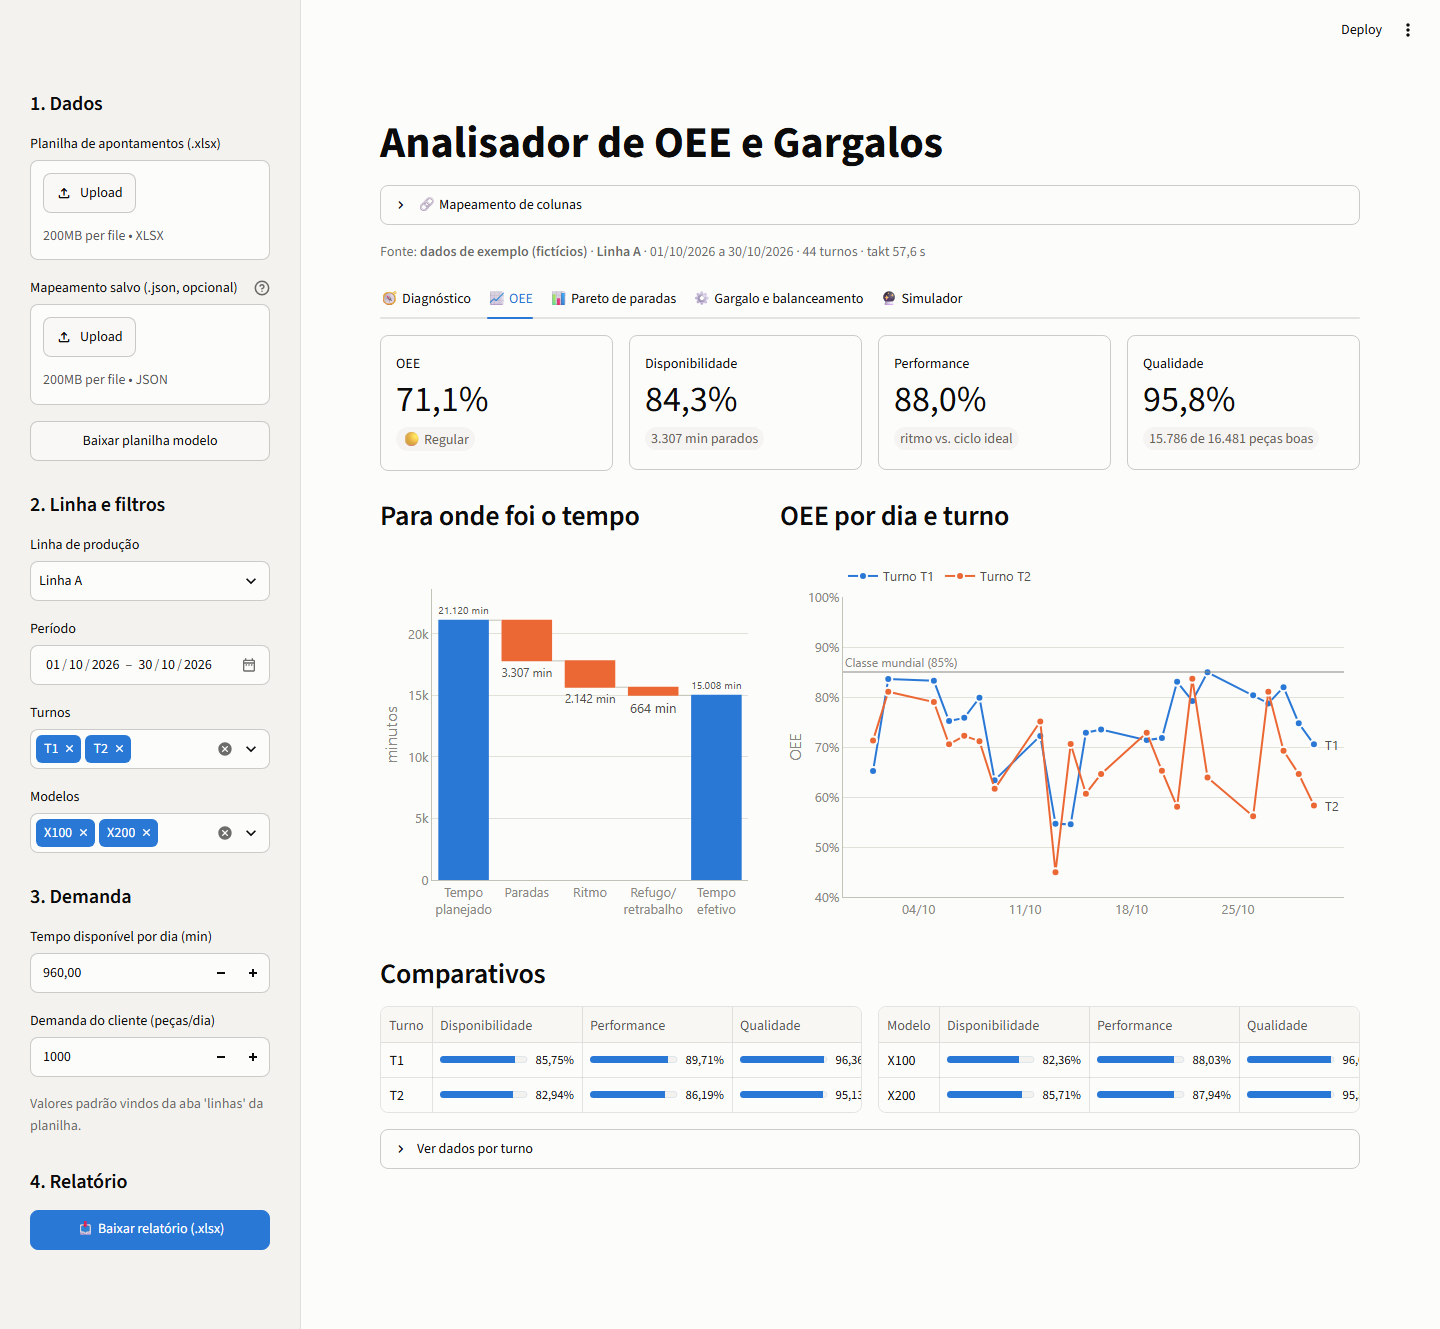
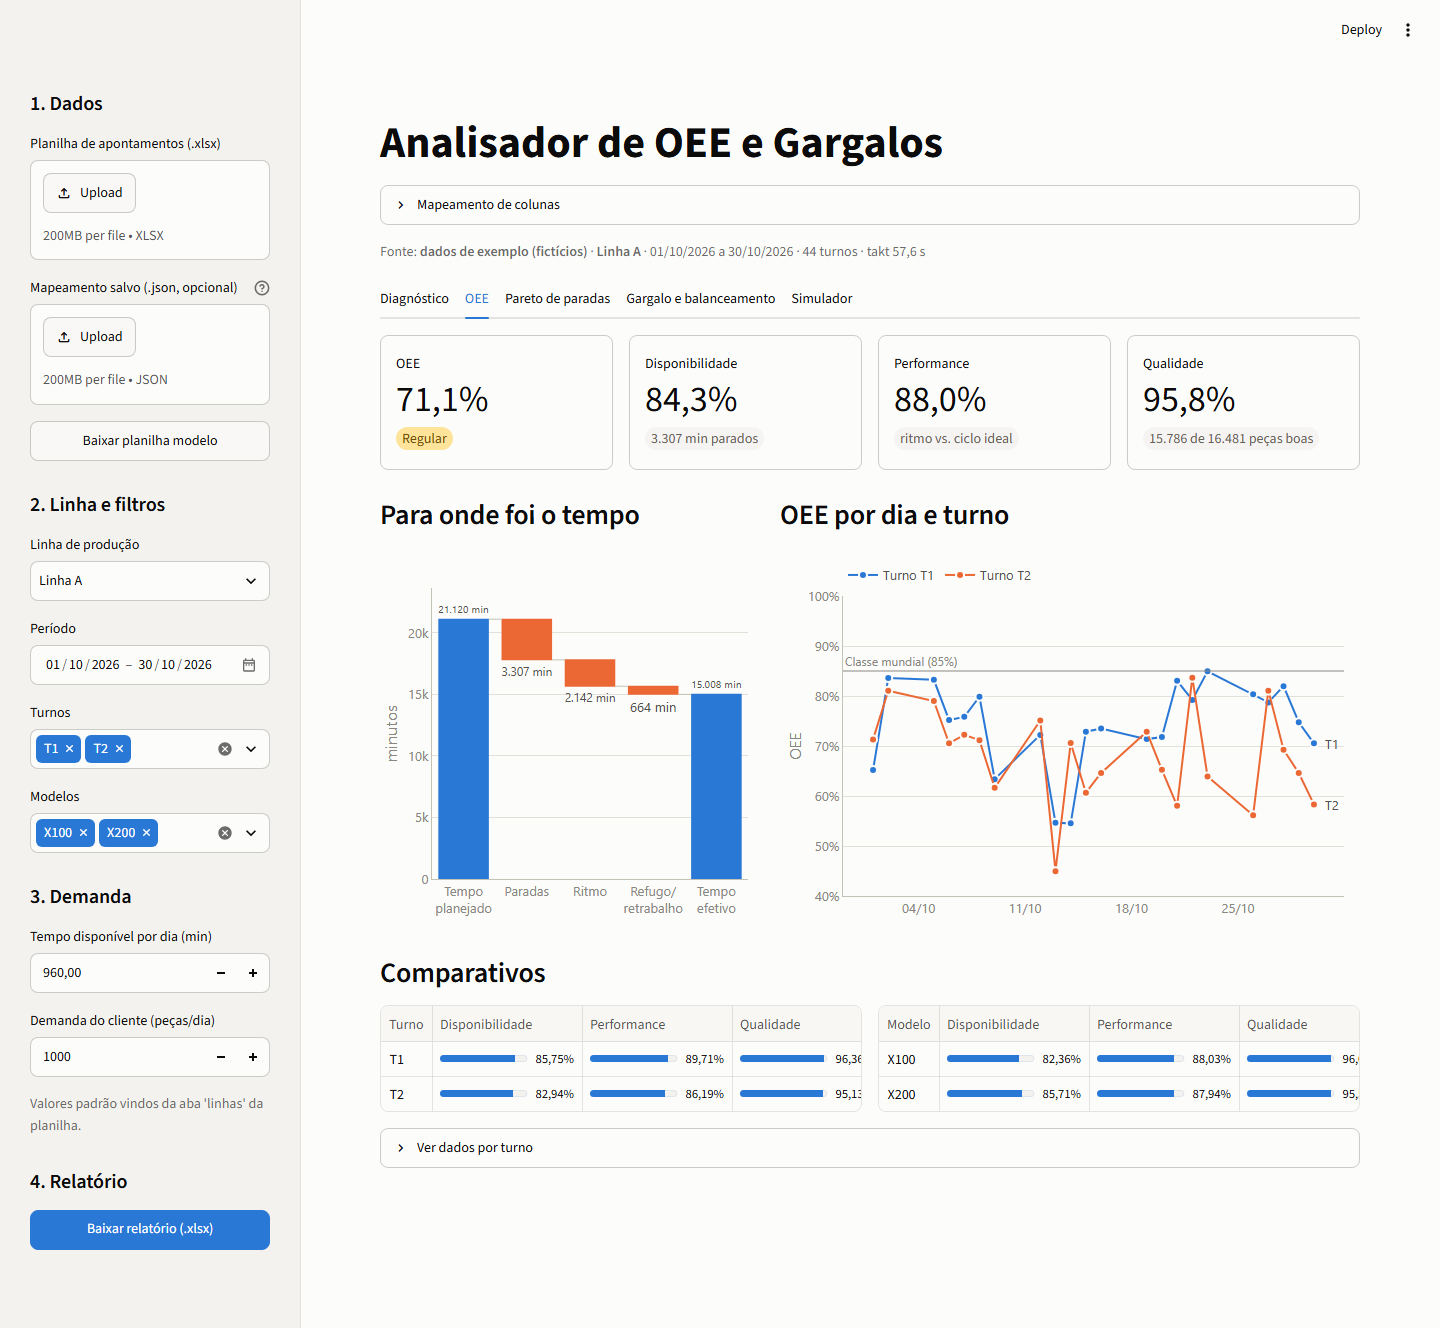
Remove emojis and strengthen alert colors
Tabs, buttons and alerts without emojis; OEE rating and demand status use theme colors. Stronger red/yellow alerts and bottleneck highlighted in the Yamazumi chart (red above takt, yellow within). Screenshots updated.

diff --git a/app.py b/app.py
@@ -30,12 +30,11 @@ from src.relatorio import gerar_relatorio_excel
 from src.simulador import Cenario, simular
 
 EXEMPLO = Path(__file__).parent / "dados" / "exemplo_montagem.xlsx"
-ICONE_CLASSE = {"Classe mundial": "🟢", "Bom": "🟢", "Regular": "🟡", "Crítico": "🔴"}
+COR_CLASSE = {"Classe mundial": "green", "Bom": "green", "Regular": "yellow", "Crítico": "red"}
 CAIXA_PRIORIDADE = {"alta": st.error, "media": st.warning, "info": st.info}
-ICONE_PRIORIDADE = {"alta": "🚨", "media": "⚠", "info": "ℹ"}
 NAO_USAR = "— não usar —"
 
-st.set_page_config(page_title="Analisador de OEE · Montagem", page_icon="🏭", layout="wide")
+st.set_page_config(page_title="Analisador de OEE · Montagem", layout="wide")
 
 
 def pct(valor: float) -> str:
@@ -46,8 +45,9 @@ def num(valor: float, casas: int = 0) -> str:
     return f"{valor:,.{casas}f}".replace(",", "X").replace(".", ",").replace("X", ".")
 
 
-def metrica(coluna, rotulo: str, valor: str, detalhe: str) -> None:
-    coluna.metric(rotulo, valor, detalhe, delta_color="off", delta_arrow="off", border=True)
+def metrica(coluna, rotulo: str, valor: str, detalhe: str, cor: str = "off") -> None:
+    """`cor`: "off" (cinza) ou uma cor da paleta do tema ("red", "yellow", "green") para sinalizar estado."""
+    coluna.metric(rotulo, valor, detalhe, delta_color=cor, delta_arrow="off", border=True)
 
 
 @st.cache_data(show_spinner="Lendo a planilha…")
@@ -58,7 +58,7 @@ def ler_abas(conteudo: bytes) -> dict[str, pd.DataFrame]:
 def tela_mapeamento(brutas: dict[str, pd.DataFrame], sugestao: Mapeamento, chave: str) -> Mapeamento:
     """Mostra o de-para de abas e colunas. Já vem preenchido com a sugestão automática."""
     escolhido = Mapeamento()
-    with st.expander("🔗 Mapeamento de colunas", expanded=not sugestao.completo):
+    with st.expander("Mapeamento de colunas", expanded=not sugestao.completo):
         st.caption(
             "Indique onde está cada informação na **sua** planilha. O sistema já sugere pelo nome "
             "das colunas; confira, corrija o que for preciso e salve o mapeamento para os próximos meses."
@@ -87,7 +87,7 @@ def tela_mapeamento(brutas: dict[str, pd.DataFrame], sugestao: Mapeamento, chave
                     format_func=lambda x: NAO_USAR if x is None else x,
                 )
         st.download_button(
-            "💾 Salvar este mapeamento (.json)", escolhido.para_json(),
+            "Salvar este mapeamento (.json)", escolhido.para_json(),
             file_name="mapeamento_colunas.json", mime="application/json",
         )
     return escolhido
@@ -186,7 +186,7 @@ st.caption(
     f"{len(producao)} turnos · takt {num(takt, 1)} s"
 )
 for aviso in dados.avisos:
-    st.warning(aviso, icon="⚠")
+    st.warning(aviso)
 if producao.empty:
     st.info("Nenhum turno corresponde aos filtros selecionados.")
     st.stop()
@@ -207,7 +207,7 @@ gargalos = [analisar_gargalo(postos_linha, m, takt) for m in modelos_com_tempos]
 achados = gerar_diagnostico(resultado, consolidado, paradas, pareto_motivos, por_turno, por_dia, gargalos)
 
 aba_diag, aba_oee, aba_pareto, aba_gargalo, aba_sim = st.tabs(
-    ["🧭 Diagnóstico", "📈 OEE", "📊 Pareto de paradas", "⚙ Gargalo e balanceamento", "🔮 Simulador"]
+    ["Diagnóstico", "OEE", "Pareto de paradas", "Gargalo e balanceamento", "Simulador"]
 )
 
 # ---------------------------------------------------------------------------
@@ -215,17 +215,18 @@ aba_diag, aba_oee, aba_pareto, aba_gargalo, aba_sim = st.tabs(
 # ---------------------------------------------------------------------------
 with aba_diag:
     c1, c2, c3, c4 = st.columns(4)
-    metrica(c1, "OEE", pct(resultado.oee), f"{ICONE_CLASSE[resultado.classificacao]} {resultado.classificacao}")
+    metrica(c1, "OEE", pct(resultado.oee), resultado.classificacao, COR_CLASSE[resultado.classificacao])
     metrica(c2, "Peças boas", num(resultado.pecas_boas), f"de {num(resultado.pecas_produzidas)} produzidas")
     metrica(c3, "Tempo parado", f"{num(resultado.tempo_parada_min)} min", f"{pct(resultado.tempo_parada_min / resultado.tempo_planejado_min)} do planejado")
     if gargalos:
         criticos = [g for g in gargalos if not g.atende_demanda]
         metrica(c4, "Atende a demanda?", "Não" if criticos else "Sim",
-                f"{', '.join(g.modelo for g in criticos)} acima do takt" if criticos else f"takt {num(takt, 1)} s")
+                f"{', '.join(g.modelo for g in criticos)} acima do takt" if criticos else f"takt {num(takt, 1)} s",
+                "red" if criticos else "green")
 
     st.subheader("Principais achados")
     for achado in achados:
-        CAIXA_PRIORIDADE[achado.prioridade](f"**{achado.titulo}**\n\n{achado.texto}", icon=ICONE_PRIORIDADE[achado.prioridade])
+        CAIXA_PRIORIDADE[achado.prioridade](f"**{achado.titulo}**\n\n{achado.texto}")
 
     if len(todas_linhas) > 1:
         st.subheader("Comparativo entre linhas")
@@ -245,7 +246,7 @@ with aba_diag:
 # ---------------------------------------------------------------------------
 with aba_oee:
     c1, c2, c3, c4 = st.columns(4)
-    metrica(c1, "OEE", pct(resultado.oee), f"{ICONE_CLASSE[resultado.classificacao]} {resultado.classificacao}")
+    metrica(c1, "OEE", pct(resultado.oee), resultado.classificacao, COR_CLASSE[resultado.classificacao])
     metrica(c2, "Disponibilidade", pct(resultado.disponibilidade), f"{num(resultado.tempo_parada_min)} min parados")
     metrica(c3, "Performance", pct(resultado.performance), "ritmo vs. ciclo ideal")
     metrica(c4, "Qualidade", pct(resultado.qualidade), f"{num(resultado.pecas_boas)} de {num(resultado.pecas_produzidas)} peças boas")
@@ -320,12 +321,13 @@ with aba_gargalo:
         g = analisar_gargalo(postos_analise, modelo, takt)
         c1, c2, c3, c4 = st.columns(4)
         metrica(c1, "Takt time", f"{num(takt, 1)} s", f"{num(demanda)} peças/dia")
-        metrica(c2, "Gargalo", f"{g.posto_gargalo} · {num(g.tempo_gargalo_s)} s", g.nome_posto_gargalo)
+        metrica(c2, "Gargalo", f"{g.posto_gargalo} · {num(g.tempo_gargalo_s)} s", g.nome_posto_gargalo,
+                "yellow" if g.atende_demanda else "red")
         metrica(c3, "Capacidade", f"{num(g.capacidade_pecas_hora)} peças/h", f"{num(g.capacidade_pecas_hora * tempo_disponivel / 60)} peças/dia")
         metrica(c4, "Balanceamento", pct(g.eficiencia_balanceamento), f"{g.numero_postos} postos (mín. teórico {g.postos_minimos})")
 
         if g.atende_demanda:
-            st.success(f"A linha atende a demanda: o gargalo ({g.posto_gargalo}) está {num(-g.diferenca_takt_s, 1)} s abaixo do takt.", icon="✅")
+            st.success(f"A linha atende a demanda: o gargalo ({g.posto_gargalo}) está {num(-g.diferenca_takt_s, 1)} s abaixo do takt.")
         else:
             if sem_desperdicio:
                 acao = "Mesmo sem desperdício, é preciso redistribuir operações ou adicionar recurso."
@@ -338,8 +340,7 @@ with aba_gargalo:
             outros = [p for p in g.postos_acima_takt if p != g.posto_gargalo]
             st.error(
                 f"**A linha não atende a demanda.** O gargalo {g.posto_gargalo} está {num(g.diferenca_takt_s, 1)} s acima do takt"
-                + (f" (também acima: {', '.join(outros)})" if outros else "") + f". {acao}",
-                icon="🚨",
+                + (f" (também acima: {', '.join(outros)})" if outros else "") + f". {acao}"
             )
 
         st.subheader(f"Yamazumi · {linha} · modelo {modelo}" + (" · sem desperdício" if sem_desperdicio else ""))
@@ -398,7 +399,7 @@ with st.sidebar:
         "Takt (s)": num(takt, 1),
     }
     st.download_button(
-        "📥 Baixar relatório (.xlsx)",
+        "Baixar relatório (.xlsx)",
         gerar_relatorio_excel(filtros, resultado, achados, por_dia, por_turno, pareto_motivos, tabela_y),
         file_name=f"relatorio_oee_{normalizar_texto(linha)}_{inicio:%Y%m%d}_{fim:%Y%m%d}.xlsx",
         type="primary", width="stretch",

diff --git a/src/graficos.py b/src/graficos.py
@@ -24,6 +24,11 @@ LARANJA = "#eb6834"
 VERDE_AGUA = "#1baf7a"
 CINZA = "#c3c2b7"
 
+# Cores de estado (reservadas para alerta, nunca usadas como série)
+VERMELHO = "#d7191c"  # gargalo acima do takt: a linha não atende a demanda
+AMARELO = "#f2b600"  # gargalo dentro do takt: ponto de atenção
+AMARELO_TEXTO = "#8a6100"  # amarelo escurecido para texto legível sobre fundo claro
+
 SUPERFICIE = "#fcfcfb"
 TINTA = "#0b0b0b"
 TINTA_SECUNDARIA = "#52514e"
@@ -207,10 +212,30 @@ def grafico_pareto(tabela: pd.DataFrame, coluna: str, unidade: str) -> go.Figure
 # Yamazumi
 # ---------------------------------------------------------------------------
 def grafico_yamazumi(tabela: pd.DataFrame, takt_s: float, posto_gargalo: str) -> go.Figure:
-    """Tempo de cada posto empilhado por tipo de atividade, com a linha do takt."""
+    """
+    Tempo de cada posto empilhado por tipo de atividade, com a linha do takt.
+    O posto gargalo ganha faixa de fundo, rótulo e nome coloridos:
+    vermelho se passa do takt (não atende a demanda), amarelo se ainda está dentro dele.
+    """
     tipos = [c for c in tabela.columns if c not in ("posto", "nome_posto", "total_s")]
+    tabela = tabela.reset_index(drop=True)
+    total_gargalo = tabela.loc[tabela["posto"] == posto_gargalo, "total_s"].max()
+    acima_do_takt = total_gargalo > takt_s
+    cor_alerta = VERMELHO if acima_do_takt else AMARELO
+    cor_texto_alerta = VERMELHO if acima_do_takt else AMARELO_TEXTO
+
     rotulos = tabela["posto"] + "<br>" + tabela["nome_posto"].str.replace(" ", "<br>", n=1)
+    # Nome do gargalo no eixo X em negrito e na cor do alerta
+    textos_eixo = [
+        f"<span style='color:{cor_texto_alerta}'><b>{r}</b></span>" if p == posto_gargalo else r
+        for r, p in zip(rotulos, tabela["posto"])
+    ]
     fig = go.Figure()
+    indice_gargalo = int(tabela.index[tabela["posto"] == posto_gargalo][0])
+    fig.add_vrect(
+        x0=indice_gargalo - 0.5, x1=indice_gargalo + 0.5, layer="below", line_width=0,
+        fillcolor=cor_alerta, opacity=0.16,
+    )
     for i, tipo in enumerate(tipos):
         cor = CORES_TIPO.get(tipo, [AZUL, VERDE_AGUA, LARANJA][i % 3])
         fig.add_trace(
@@ -221,11 +246,17 @@ def grafico_yamazumi(tabela: pd.DataFrame, takt_s: float, posto_gargalo: str) ->
         )
     # Total acima de cada barra; o gargalo ganha destaque no texto (não só na cor)
     for rotulo, posto, total in zip(rotulos, tabela["posto"], tabela["total_s"]):
-        eh_gargalo = posto == posto_gargalo
-        fig.add_annotation(
-            x=rotulo, y=total, text=f"<b>{total:.0f} s · gargalo</b>" if eh_gargalo else f"{total:.0f} s",
-            showarrow=False, yshift=12, font=dict(color=TINTA if eh_gargalo else TINTA_SECUNDARIA, size=12),
-        )
+        if posto == posto_gargalo:
+            situacao = "acima do takt" if acima_do_takt else "dentro do takt"
+            fig.add_annotation(
+                x=rotulo, y=total, text=f"<b>GARGALO · {total:.0f} s</b><br>{situacao}",
+                showarrow=False, yshift=22, font=dict(color=cor_texto_alerta, size=13),
+            )
+        else:
+            fig.add_annotation(
+                x=rotulo, y=total, text=f"{total:.0f} s",
+                showarrow=False, yshift=12, font=dict(color=TINTA_SECUNDARIA, size=12),
+            )
     fig.add_hline(
         y=takt_s, line=dict(color=TINTA, width=2),
         annotation_text=f"Takt {takt_s:.1f} s".replace(".", ","), annotation_position="top right",
@@ -233,5 +264,6 @@ def grafico_yamazumi(tabela: pd.DataFrame, takt_s: float, posto_gargalo: str) ->
     )
     _layout_base(fig, "segundos por peça", altura=460)
     fig.update_layout(barmode="stack", legend_traceorder="normal")
-    fig.update_yaxes(range=[0, max(tabela["total_s"].max(), takt_s) * 1.18])
+    fig.update_xaxes(tickmode="array", tickvals=list(rotulos), ticktext=textos_eixo)
+    fig.update_yaxes(range=[0, max(tabela["total_s"].max(), takt_s) * 1.25])
     return fig

diff --git a/README.md b/README.md
@@ -2,7 +2,7 @@
 
 Painel em Python que transforma a planilha de apontamentos de uma linha de montagem em **diagnóstico pronto**: OEE decomposto, Pareto das paradas, gargalo vs. takt time (Yamazumi) e um simulador que traduz melhoria em **peças boas a mais**.
 
-**[▶ Abrir o app online](https://SEU-APP.streamlit.app)** · dados 100% fictícios, gerados por script
+**[Abrir o app online](https://SEU-APP.streamlit.app)** · dados 100% fictícios, gerados por script
 
 ![Aba de diagnóstico](docs/img/diagnostico.png)
 
@@ -18,12 +18,12 @@ Em muitas fábricas o OEE é calculado à mão numa planilha, uma vez por mês, 
 
 | Aba | Pergunta que responde |
 |---|---|
-| 🧭 **Diagnóstico** | O que está errado e por onde começar? Achados em frases prontas, ordenados por prioridade. |
-| 📈 **OEE** | Para onde foi o tempo? Cascata do tempo planejado até o efetivo, evolução por dia e turno. |
-| 📊 **Pareto de paradas** | Quais poucas causas concentram a maior parte da perda? Classes ABC por motivo, categoria 6M ou posto. |
-| ⚙ **Gargalo e balanceamento** | A linha atende a demanda? Yamazumi por posto (agrega valor / não agrega / desperdício) contra o takt. |
-| 🔮 **Simulador** | Se reduzirmos a causa X pela metade, quanto ganhamos em OEE e em peças? |
-| 📥 **Relatório** | Excel formatado com resumo, achados, OEE por dia/turno, Pareto e Yamazumi, pronto para a reunião. |
+| **Diagnóstico** | O que está errado e por onde começar? Achados em frases prontas, ordenados por prioridade (vermelho = crítico, amarelo = atenção). |
+| **OEE** | Para onde foi o tempo? Cascata do tempo planejado até o efetivo, evolução por dia e turno. |
+| **Pareto de paradas** | Quais poucas causas concentram a maior parte da perda? Classes ABC por motivo, categoria 6M ou posto. |
+| **Gargalo e balanceamento** | A linha atende a demanda? Yamazumi por posto (agrega valor / não agrega / desperdício) contra o takt. O gargalo fica destacado em vermelho quando passa do takt e em amarelo quando ainda está dentro dele. |
+| **Simulador** | Se reduzirmos a causa X pela metade, quanto ganhamos em OEE e em peças? |
+| **Relatório** | Excel formatado com resumo, achados, OEE por dia/turno, Pareto e Yamazumi, pronto para a reunião. |
 
 <table>
 <tr>
@@ -95,7 +95,7 @@ Assim a primeira causa é sempre classe A.
 
 Cada fábrica nomeia as colunas de um jeito ("Qtd Produzida", "Célula", "Rework", "Downtime"...). O app **não exige que você renomeie nada**:
 
-1. Ao carregar a planilha, o painel **🔗 Mapeamento de colunas** tenta reconhecer cada campo em três etapas:
+1. Ao carregar a planilha, o painel **Mapeamento de colunas** tenta reconhecer cada campo em três etapas:
    1. pelo nome exato;
    2. por uma lista de sinônimos de fábrica;
    3. por nome parecido, o que pega erros de digitação.
